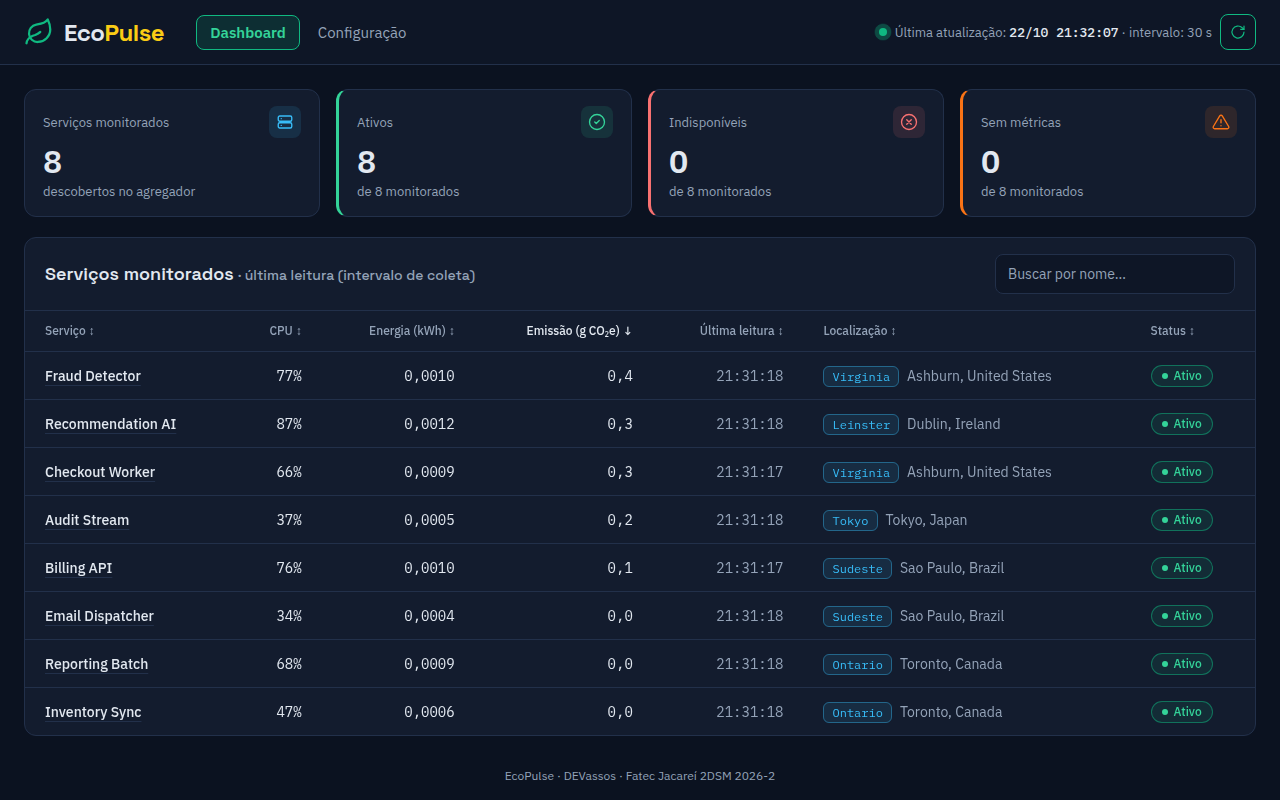
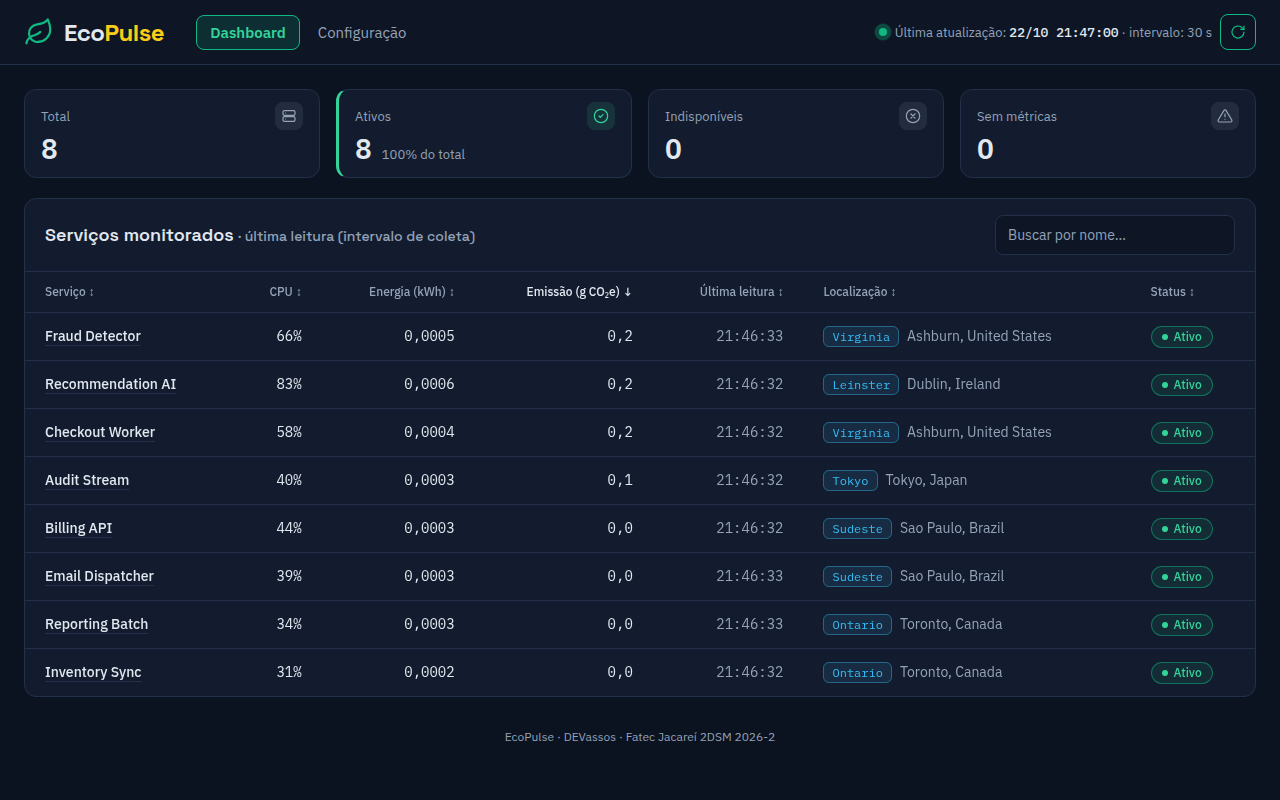
docs(frontend): documenta os cards compactos e o print (#21) [RF08]

diff --git a/frontend/README.md b/frontend/README.md
@@ -43,10 +43,11 @@ Lidas do `.env` da **raiz** do repositório (modelo em `.env.example`; `envDir: 
 
 ## Cards de estado
 
-- Acima da tabela, `KpiPanel` mostra quatro cards `MetricTile`: **Serviços monitorados**, **Ativos**, **Indisponíveis** e **Sem métricas**. As contagens vêm de `summarizeStatus` (`src/utils/summary.ts`), sobre a mesma lista de `GET /api/services` da tabela, e mudam no mesmo ciclo do polling.
+- Acima da tabela, `KpiPanel` mostra quatro cards `MetricTile`: **Total**, **Ativos**, **Indisponíveis** e **Sem métricas**. As contagens vêm de `summarizeStatus` (`src/utils/summary.ts`), sobre a mesma lista de `GET /api/services` da tabela, e mudam no mesmo ciclo do polling.
 - Os removidos não entram no total, porque saíram da lista do agregador. Quando há algum, o card do total diz "sem contar N removidos".
-- Cada estado tem rótulo, ícone e a cor do `StatusBadge`: a cor nunca é a única pista.
-- Os cards só aparecem depois da primeira busca bem-sucedida: sem dados, a tela mostra o carregamento ou o erro, nunca zeros. Se uma atualização falha, eles continuam com o último dado, junto com o erro e o selo "Desatualizado desde…".
+- Cada estado tem rótulo, ícone e a cor do `StatusBadge`: a cor nunca é a única pista. A cor só aparece com contagem maior que zero; com zero, o card fica neutro e sem nota, para não criar falso alarme. Com contagem, a nota ao lado do número dá a proporção ("14% do total").
+- Os cards são compactos (cerca de 89 px de altura), para sobrar espaço para a tabela em telas de notebook.
+- Os cards só aparecem depois da primeira busca bem-sucedida: sem dados, a tela mostra o carregamento ou o erro, nunca zeros. Se uma atualização falha, eles continuam com o último dado, com os números apagados (`--muted`), junto com o erro e o selo "Desatualizado desde…".
 - `MetricTile` é genérico (rótulo, valor, unidade, nota, ícone e tom), para os cards de energia e CO₂e do painel de indicadores agregados.
 
 ## Energia e emissão na tabela
@@ -142,6 +143,6 @@ npm run mock        # backend falso em http://localhost:3000 (desenvolvimento)
 19. Fechar a janela com Esc, com o botão × e com um clique fora → as três formas fecham. Com Tab até o nome de um serviço e Enter → a janela abre; ao fechar, o foco volta para o nome.
 20. Com o mock no ar e `VITE_REFRESH_INTERVAL_MS=5000`, abrir um serviço → o terminal do mock registra `GET /collections` a cada 5 s, e o selo da janela e a CPU das coletas mudam sem recarregar. Parar o mock → a janela mostra o erro e "Desatualizado desde …" e mantém as coletas.
 21. Estreitar a janela do navegador para 375 px com os detalhes abertos → a página não ganha rolagem lateral; só a tabela do histórico rola na horizontal.
-22. Sem `.env` → acima da tabela, os cards mostram **Serviços monitorados 7**, **Ativos 5**, **Indisponíveis 1** e **Sem métricas 1**, as mesmas contagens da coluna Status. Com 375 px, ficam em 2 colunas, sem rolagem lateral.
-23. Com o backend real: `curl -s http://localhost:3000/api/services | jq '.services | group_by(.status) | map({(.[0].status): length}) | add'` → cada card bate com a contagem do seu status, e o total é a soma sem os `removido`.
-24. Com o dashboard aberto, `docker compose stop backend` e esperar um intervalo → os cards continuam com os últimos números, com o erro e o selo "Desatualizado desde…". Recarregar a página com o backend parado → nenhum card, só o erro. `docker compose start backend` → no ciclo seguinte, os cards e o selo voltam ao normal.
+22. Sem `.env` → acima da tabela, os cards mostram **Total 7**, **Ativos 5** (71% do total), **Indisponíveis 1** e **Sem métricas 1** (14% do total cada), em verde, vermelho e laranja, as mesmas contagens da coluna Status. Com 375 px, ficam em 2 colunas, sem rolagem lateral.
+23. Com o backend real: `curl -s http://localhost:3000/api/services | jq '.services | group_by(.status) | map({(.[0].status): length}) | add'` → cada card bate com a contagem do seu status, e o total é a soma sem os `removido`. Com todos ativos, **Indisponíveis** e **Sem métricas** mostram 0 sem cor e sem nota.
+24. Com o dashboard aberto, `docker compose stop backend` e esperar um intervalo → os cards continuam com os últimos números, apagados, com o erro e o selo "Desatualizado desde…". Recarregar a página com o backend parado → nenhum card, só o erro. `docker compose start backend` → no ciclo seguinte, os cards e o selo voltam ao normal.

diff --git a/README.md b/README.md
@@ -44,11 +44,11 @@ O desenvolvimento acontece na branch `develop`; cada funcionalidade entra nesta 
 
   _Tabela ligada ao backend real (`docker compose`) em 21/10/2026, com energia e emissão da última coleta (#139) e a paleta azul (#180)._
 
-- **RF08, RF09 — Cards de estado dos serviços (#21):** acima da tabela, cards com o total de serviços monitorados e quantos estão ativos, indisponíveis e sem métricas, contados na mesma resposta de `GET /api/services` e atualizados no mesmo ciclo. Os removidos ficam fora do total. Sem dados, os cards não aparecem; numa falha, mantêm o último dado com "Desatualizado desde …".
+- **RF08, RF09 — Cards de estado dos serviços (#21):** acima da tabela, cards com o total de serviços monitorados e quantos estão ativos, indisponíveis e sem métricas, contados na mesma resposta de `GET /api/services` e atualizados no mesmo ciclo. Os removidos ficam fora do total, e a cor só aparece quando há serviços naquele estado. Sem dados, os cards não aparecem; numa falha, mantêm o último dado, apagado, com "Desatualizado desde …".
 
   ![Cards de estado acima da tabela de serviços](docs/img/sprint-2-kpis.png)
 
-  _Dashboard com o backend real (`docker compose`) em 22/10/2026: os 8 serviços ativos._
+  _Dashboard com o backend real (`docker compose`) em 22/10/2026: os 8 serviços ativos, e Indisponíveis e Sem métricas zerados, sem cor._
 
 - **RNF02 — Indicador de última atualização (#89):** selo no cabeçalho com o horário da última busca bem-sucedida e um ponto verde pulsando enquanto os dados estão em dia; se uma busca falha, ele fica laranja e passa a dizer "Desatualizado desde …", sem apagar os dados da tela.
 
